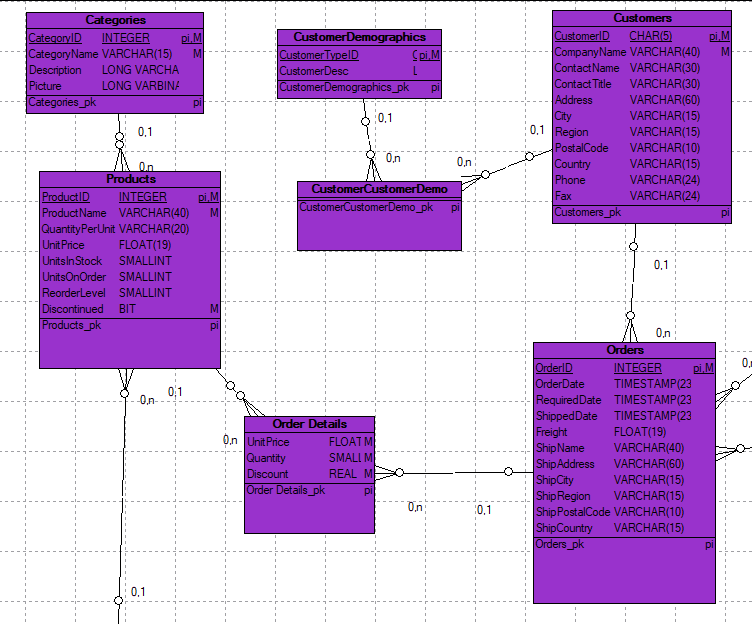
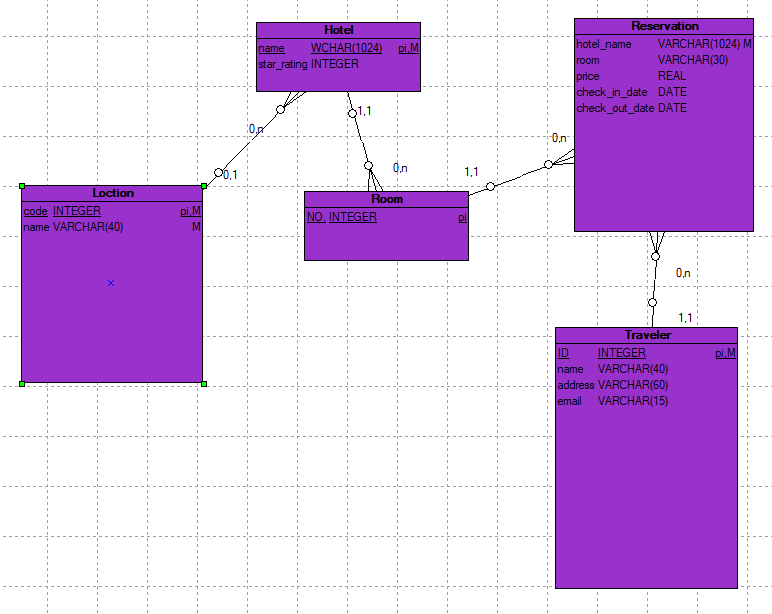
Update domain-modeling.md

diff --git a/_posts/2018-04-29-domain-modeling.md b/_posts/2018-04-29-domain-modeling.md
@@ -47,144 +47,43 @@ introduction: 领域建模实践.
             -- +---------------------------------------------------------
             -- | CREATE
             -- +---------------------------------------------------------
-            if exists(select 1 from sys.sysforeignkey where role='FK_HOTEL_REFERENCE_LOCATION') then
-                alter table hotel
-                delete foreign key FK_HOTEL_REFERENCE_LOCATION
-            end if;
-
-            if exists(select 1 from sys.sysforeignkey where role='FK_REQUEST_REFERENCE_HOTEL') then
-                alter table request
-                delete foreign key FK_REQUEST_REFERENCE_HOTEL
-            end if;
-
-            if exists(select 1 from sys.sysforeignkey where role='FK_REQUEST_REFERENCE_CONSUMER') then
-                alter table request
-                delete foreign key FK_REQUEST_REFERENCE_CONSUMER
-            end if;
-
-            if exists(select 1 from sys.sysforeignkey where role='FK_ROOM_REFERENCE_HOTEL') then
-                alter table room
-                delete foreign key FK_ROOM_REFERENCE_HOTEL
-            end if;
-
-            if exists(select 1 from sys.sysforeignkey where role='FK_ROOM DES_REFERENCE_ROOM') then
-                alter table "room description"
-                delete foreign key "FK_ROOM DES_REFERENCE_ROOM"
-            end if;
-
-            drop table if exists consumer;
-
-            drop table if exists hotel;
-
-            drop table if exists location;
-
-            drop table if exists request;
-
-            drop table if exists room;
-
-            drop table if exists "room description";
-
-            /*==============================================================*/
-            /* Table: consumer                                              */
-            /*==============================================================*/
-            create table consumer 
+            CREATE TABLE `Loction`
             (
-            name                 char(20)                       not null,
-            email                char(50)                       not null,
-            constraint PK_CONSUMER primary key clustered (name)
+            code INTEGER NOT NULL,
+            name VARCHAR(40) NOT NULL,
+            PRIMARY KEY (code)
             );
 
-            /*==============================================================*/
-            /* Table: hotel                                                 */
-            /*==============================================================*/
-            create table hotel 
+            CREATE TABLE `Hotel`
             (
-            name                 char(50)                       not null,
-            star                 decimal                        null,
-            "index"              char(20)                       not null,
-            code                 char(20)                       null,
-            address              dec(50)                        null,
-            constraint PK_HOTEL primary key clustered ("index")
+            name CHAR(1024) NOT NULL,
+            star_rating INTEGER,
+            PRIMARY KEY (name)
             );
 
-            /*==============================================================*/
-            /* Table: location                                              */
-            /*==============================================================*/
-            create table location 
+            CREATE TABLE `Reservation`
             (
-            code                 char(20)                       not null,
-            name                 char(50)                       not null,
-            constraint PK_LOCATION primary key clustered (code, name)
+            hotel_name VARCHAR(1024) NOT NULL,
+            room VARCHAR(30),
+            price REAL(30),
+            check_in_date DATE,
+            check_out_date DATE
             );
 
-            /*==============================================================*/
-            /* Table: request                                               */
-            /*==============================================================*/
-            create table request 
+            CREATE TABLE `Room`
             (
-            "hotel name"         char(50)                       not null,
-            city                 char(20)                       null,
-            "room type"          char(10)                       not null,
-            "check in date"      datetime                       not null,
-            "check out date"     datetime                       not null,
-            hotel_index          char(20)                       null,
-            con_name             char(20)                       null,
-            special              char(100)                      null,
-            "request index"      char(20)                       not null,
-            constraint PK_REQUEST primary key clustered ("check in date", "check out date", "request index")
+            NO. INTEGER,
+            PRIMARY KEY (NO.)
             );
 
-            /*==============================================================*/
-            /* Table: room                                                  */
-            /*==============================================================*/
-            create table room 
+            CREATE TABLE `Traveler`
             (
-            "room id"            char(10)                       not null,
-            "hotel index"        char(20)                       null,
-            type                 char(20)                       not null,
-            "availble num"       decimal                        not null,
-            constraint PK_ROOM primary key clustered ("room id")
+            ID INTEGER NOT NULL,
+            name VARCHAR(40),
+            address VARCHAR(60),
+            email VARCHAR(15),
+            PRIMARY KEY (ID)
             );
-
-            /*==============================================================*/
-            /* Table: "room description"                                    */
-            /*==============================================================*/
-            create table "room description" 
-            (
-            "room id"            char(10)                       null,
-            type                 char(20)                       not null,
-            "list price"         double                         not null
-            );
-
-            alter table hotel
-            add constraint FK_HOTEL_REFERENCE_LOCATION foreign key (code, name)
-                references location (code, name)
-                on update restrict
-                on delete restrict;
-
-            alter table request
-            add constraint FK_REQUEST_REFERENCE_HOTEL foreign key (hotel_index)
-                references hotel ("index")
-                on update restrict
-                on delete restrict;
-
-            alter table request
-            add constraint FK_REQUEST_REFERENCE_CONSUMER foreign key (con_name)
-                references consumer (name)
-                on update restrict
-                on delete restrict;
-
-            alter table room
-            add constraint FK_ROOM_REFERENCE_HOTEL foreign key ("hotel index")
-                references hotel ("index")
-                on update restrict
-                on delete restrict;
-
-            alter table "room description"
-            add constraint "FK_ROOM DES_REFERENCE_ROOM" foreign key ("room id")
-                references room ("room id")
-                on update restrict
-                on delete restrict;
             ```
         - 数据库逻辑模型 与 领域模型 的异同
             - 不同：领域模型用于分析，而数据库模型用于开发，需要给出更具体细节，如字段类型。
